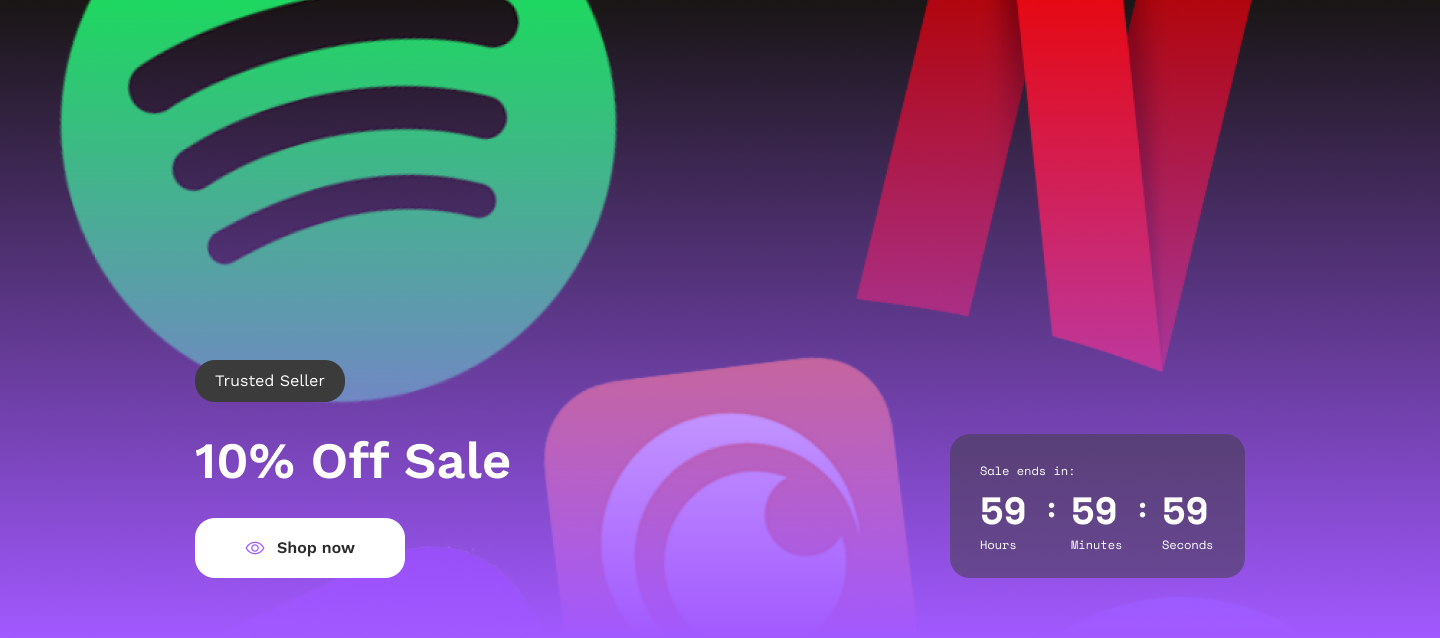
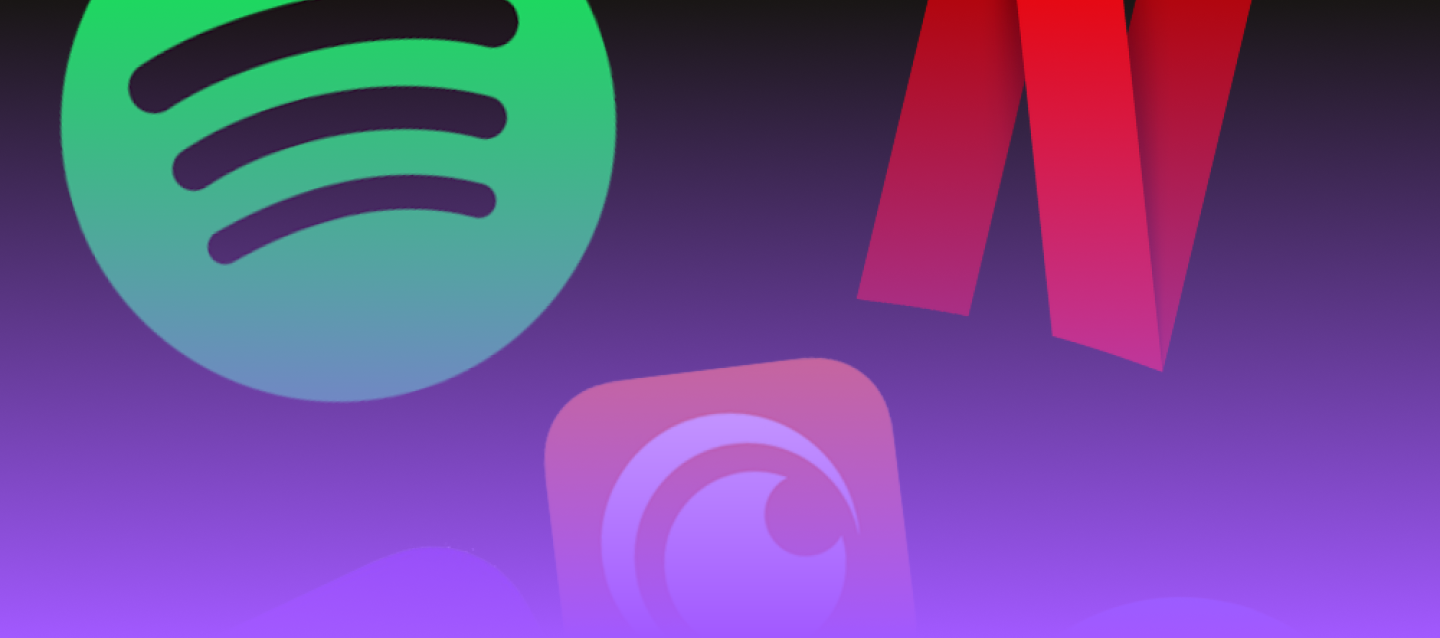
com2

diff --git a/my-app/src/components/home/sale.tsx b/my-app/src/components/home/sale.tsx
@@ -5,13 +5,62 @@ export default function Sale() {
   return (
     <section>
       <div
-        style={{
-          backgroundImage: "url(/NFT_Highlight.png)",
-          backgroundRepeat: "no-repeat",
-          backgroundSize: "cover",
-          height: "100vh", // add this line
-        }}
-      ></div>
+        className="bg-cover bg-no-repeat bg-center w-full h-screen"
+        style={{ backgroundImage: "url(/NFT_Highlight.png)" }}
+      >
+        <div className="flex flex-row lg:px-[235px] md:px-[50px] sm:px-[50px] justify-between items-center">
+          <div className="flex flex-col lg:mt-[500px] md:mt-[200px] mb-[40px] space-y-30 justify-start items-start">
+            <button className="rounded-[20px] bg-[#3B3B3B] px-[30px] py-[10px] justify-center">
+              Trusted Seller
+            </button>
+            <span className="text-[51px] font-[600] ">10% Off Sale</span>
+            <button className="bg-white flex flex-row justify-center items-center rounded-[20px] px-[45px] py-[18px] gap-10">
+              <svg
+                xmlns="http://www.w3.org/2000/svg"
+                width="20"
+                height="20"
+                viewBox="0 0 20 20"
+                fill="none"
+              >
+                <path
+                  fill-rule="evenodd"
+                  clip-rule="evenodd"
+                  d="M2.83931 6.74556C4.3292 5.25567 6.66714 3.75 10 3.75C13.3329 3.75 15.6708 5.25567 17.1607 6.74556C17.9038 7.4887 18.4397 8.23076 18.7906 8.78809C18.9664 9.06724 19.0966 9.30146 19.184 9.4683C19.2277 9.55176 19.2608 9.61849 19.2835 9.66569C19.2949 9.6893 19.3037 9.70804 19.3099 9.72157L19.3174 9.7379L19.3197 9.74306L19.3206 9.74487L19.3209 9.74558C19.321 9.74588 19.3211 9.74616 18.75 10C19.3211 10.2538 19.321 10.2541 19.3209 10.2544L19.3206 10.2551L19.3197 10.2569L19.3174 10.2621L19.3099 10.2784C19.3037 10.292 19.2949 10.3107 19.2835 10.3343C19.2608 10.3815 19.2277 10.4482 19.184 10.5317C19.0966 10.6985 18.9664 10.9328 18.7906 11.2119C18.4397 11.7692 17.9038 12.5113 17.1607 13.2544C15.6708 14.7443 13.3329 16.25 10 16.25C6.66714 16.25 4.3292 14.7443 2.83931 13.2544C2.09617 12.5113 1.5603 11.7692 1.20939 11.2119C1.03362 10.9328 0.903373 10.6985 0.815984 10.5317C0.772267 10.4482 0.739205 10.3815 0.716476 10.3343C0.705109 10.3107 0.696319 10.292 0.690066 10.2784L0.682582 10.2621L0.680256 10.2569L0.679445 10.2551L0.679127 10.2544C0.678993 10.2541 0.678868 10.2538 1.25 10C0.678868 9.74616 0.678993 9.74588 0.679127 9.74558L0.679445 9.74487L0.680256 9.74306L0.682582 9.7379L0.690066 9.72157C0.696319 9.70804 0.705109 9.6893 0.716476 9.66569C0.739205 9.61849 0.772267 9.55176 0.815984 9.4683C0.903373 9.30146 1.03362 9.06724 1.20939 8.78809C1.5603 8.23076 2.09617 7.4887 2.83931 6.74556ZM1.25 10L0.678868 9.74616C0.607044 9.90777 0.607044 10.0922 0.678868 10.2538L1.25 10ZM1.94882 10C2.02235 10.1377 2.12794 10.3248 2.26718 10.5459C2.58033 11.0433 3.06008 11.7074 3.72319 12.3706C5.0458 13.6932 7.08286 15 10 15C12.9171 15 14.9542 13.6932 16.2768 12.3706C16.9399 11.7074 17.4197 11.0433 17.7328 10.5459C17.8721 10.3248 17.9777 10.1377 18.0512 10C17.9777 9.86227 17.8721 9.67524 17.7328 9.4541C17.4197 8.95674 16.9399 8.29255 16.2768 7.62944C14.9542 6.30683 12.9171 5 10 5C7.08286 5 5.0458 6.30683 3.72319 7.62944C3.06008 8.29255 2.58033 8.95674 2.26718 9.4541C2.12794 9.67524 2.02235 9.86227 1.94882 10ZM18.75 10L19.3211 10.2538C19.393 10.0922 19.393 9.90777 19.3211 9.74616L18.75 10Z"
+                  fill="#A259FF"
+                />
+                <path
+                  fill-rule="evenodd"
+                  clip-rule="evenodd"
+                  d="M10 7.5C8.61929 7.5 7.5 8.61929 7.5 10C7.5 11.3807 8.61929 12.5 10 12.5C11.3807 12.5 12.5 11.3807 12.5 10C12.5 8.61929 11.3807 7.5 10 7.5ZM6.25 10C6.25 7.92893 7.92893 6.25 10 6.25C12.0711 6.25 13.75 7.92893 13.75 10C13.75 12.0711 12.0711 13.75 10 13.75C7.92893 13.75 6.25 12.0711 6.25 10Z"
+                  fill="#A259FF"
+                />
+              </svg>
+              <span className="text-[#000] text-[16px] font-[600]">
+                Shop now
+              </span>
+            </button>
+          </div>
+          <div className="flex flex-col items-start justify-center bg-[#3B3B3B] w-[295px] h-[144px] px-[30px] py-[30px] lg:mt-[500px] md:mt-[200px] rounded-[20px] mb-[40px] gap-10">
+            <span>Sale ends in:</span>
+            <div className="flex flex-row w-full space-x-15 justify-center items-center">
+              <div className="flex flex-col items-center">
+                <span className="text-[#FFF]  text-[38px] font-[700]">59</span>
+                <span>Hours</span>
+              </div>
+              <span>:</span>
+              <div className="flex flex-col items-center">
+                <span className="text-[#FFF]  text-[38px] font-[700]">59</span>
+                <span>Minutes</span>
+              </div>
+              <span>:</span>
+              <div className="flex flex-col items-center ">
+                <span className="text-[#FFF]  text-[38px] font-[700]">59</span>
+                <span>Seconds</span>
+              </div>
+            </div>
+          </div>
+        </div>
+      </div>
     </section>
   );
 }

diff --git a/my-app/src/components/home/digest.tsx b/my-app/src/components/home/digest.tsx
@@ -3,21 +3,27 @@ import { HomeImage } from "@/assets/images/_images";
 export default function Digest() {
   return (
     <section>
-      <div className="bg-black-gray px-[255px] flex flex-row justify-between items-center py-[120px]">
-        <div className="flex flex-col w-[510px] h-full items-start space-y-55">
-          <div className="flex flex-col min-w-max space-y-55">
-            <span className="text-[67px] font-[600] leading-3">
+      <div className="bg-black-gray lg:px-[255px] md:px-50 sm:px-50 flex flex-row justify-between items-center py-[120px]">
+        <div className="flex flex-col lg:w-[510px] md:w-[300px] h-full items-start space-y-55">
+          <div className="flex flex-col min-w-max space-y-5">
+            <span className="lg:text-[67px] md:text-[38px] sm:text-[28px] font-[600]">
               Discover & Buy
             </span>
-            <span className="text-[67px] font-[600] leading-3">Digital</span>
-            <span className="text-[67px] font-[600] leading-3">Accounts</span>
+            <div className="flex md:flex-col sm:flex-row md:space-x-0 space-x-10">
+              <span className="lg:text-[67px] md:text-[38px] sm:text-[28px] font-[600]">
+                Digital
+              </span>
+              <span className="lg:text-[67px] md:text-[38px] sm:text-[28px] font-[600]">
+                Accounts
+              </span>
+            </div>
           </div>
 
           <span className="text-[22px] font-[400]">
             Lorem ipsum dolor sit amet, consectetur adipiscing elit. Sed euismod
             sodales neque et porta. Donec ut diam dignissim
           </span>
-          <button className="flex flex-row w-[180px] min-w-[180px]  gradient-btn rounded-[20px] h-[40px] w-full gap-[12px] px-5 py-0 items-center justify-center">
+          <button className="flex flex-row w-[180px] min-w-[180px]  gradient-btn1 rounded-[20px] h-[40px] gap-[12px] px-5 py-0 items-center justify-center">
             <svg
               xmlns="http://www.w3.org/2000/svg"
               width="20"
@@ -71,7 +77,7 @@ export default function Digest() {
         </div>
         <div>
           <Image
-            className="h-[537px] w-[510px] min-h-[537px] min-w-[510px] "
+            className="lg:h-[537px] md:h-[350px] lg:w-[510px] md:w-[350px] min-w-[250px] min-h-[250px]"
             src={HomeImage.Placeholer}
             alt="placeholder"
           />

diff --git a/my-app/src/components/layouts/header.tsx b/my-app/src/components/layouts/header.tsx
@@ -6,7 +6,7 @@ import { HeaderIcons } from "@/assets/icons/_icons";
 export default function Header() {
   return (
     <>
-      <div className="bg-black-gray flex flex-row justify-between py-[25px] px-[50px]">
+      <div className="bg-black-gray flex flex-row justify-between py-[25px] lg:px-[50px] md:px-30">
         <div className="flex flex-row justify-center items-center space-x-15">
           <Image
             className="h-[49px] w-[53px] max-h-[49px] max-w-[53px]"
@@ -17,7 +17,7 @@ export default function Header() {
             PVL Account Shop
           </span>
         </div>
-        <div className="flex flex-row justify-center items-center space-x-35">
+        <div className="lg:flex hidden flex-row justify-center items-center space-x-35">
           <span className="text-[16px] font-[600] text-center leading-3">
             Marketplace
           </span>
@@ -27,7 +27,7 @@ export default function Header() {
           <span className="text-[16px] font-[600] text-center leading-3">
             Cart
           </span>
-          <button className="flex flex-row w-[150px] min-w-[150px]  gradient-btn rounded-[15px] h-[50px] w-full gap-[12px] px-5 py-0 items-center justify-center">
+          <button className="flex flex-row w-[150px] min-w-[150px]  gradient-btn rounded-[15px] h-[50px] gap-[12px] px-5 py-0 items-center justify-center">
             <svg
               xmlns="http://www.w3.org/2000/svg"
               width="20"

diff --git a/my-app/src/components/home/selling.tsx b/my-app/src/components/home/selling.tsx
@@ -4,10 +4,10 @@ import Image from "next/image";
 export default function Home() {
   return (
     <section>
-      <div className="flex flex-col mb-[55px]  px-[255px]">
+      <div className="flex flex-col mb-[55px] lg:px-[255px] md:px-50 sm:px-50">
         <div className="flex flex-row justify-between items-center">
           <div className="flex flex-col ">
-            <div className="flex flex-col w-[510px] min-w-max">
+            <div className="flex flex-col lg:w-[510px] md:w-auto sm:w-auto min-w-max">
               <span className="text-[38px] font-[600]">Top Selling</span>
               <span className="text-[22px] font-[400] mt-[20px]">
                 Check out OUR best selling accounts

diff --git a/my-app/src/components/layouts/footer.tsx b/my-app/src/components/layouts/footer.tsx
@@ -6,8 +6,8 @@ import { HeaderIcons } from "@/assets/icons/_icons";
 export default function Footer() {
   return (
     <>
-      <div className="bg-black-gray flex flex-row w-full  justify-center items-center space-x-35 py-25">
-        <div className="w-[320px] items-start">
+      <div className="bg-black-gray flex lg:flex-row md:flex-col w-full  lg:justify-center md:justify-start lg:items-center md:items-start lg:space-x-35 space-x-0 space-y-35 py-25 lg:px-0 md:px-50">
+        <div className="lg:w-[320px] md:w-full items-start">
           <Image
             className="h-[49px] w-[53px] max-h-[49px] max-w-[53px]"
             src={HeaderIcons.Logo}

diff --git a/my-app/src/components/home/discover.tsx b/my-app/src/components/home/discover.tsx
@@ -4,7 +4,7 @@ import { DigestImage } from "@/assets/images/_images";
 export default function Discover() {
   return (
     <section>
-      <div className="flex flex-col py-55 px-[255px]">
+      <div className="flex flex-col py-55 lg:px-[255px] md:px-50 sm:px-50">
         <div className="bg-[#3B3B3B] p-[60px] rounded-[20px] w-full flex flex-row justify-center items-center h-[350px] gap-40">
           <Image src={DigestImage.Digest} alt="digest" />
           <div className="flex flex-col">

diff --git a/my-app/src/components/home/works.tsx b/my-app/src/components/home/works.tsx
@@ -4,7 +4,7 @@ import { WorksData } from "@/assets/images/_images";
 export default function Works() {
   return (
     <section>
-      <div className="flex flex-col py-55 px-[255px]">
+      <div className="flex flex-col py-55 lg:px-[255px] md:px-50">
         <div className="flex flex-row justify-between items-center">
           <div className="flex flex-col ">
             <div className="flex flex-col w-[510px] min-w-max">

diff --git a/my-app/src/assets/scss/styles.scss b/my-app/src/assets/scss/styles.scss
@@ -6,4 +6,7 @@
   .gradient-btn {
     background: linear-gradient(149deg, #a259ff 0%, #ff6250 100%), #a259ff;
   }
+  .gradient-btn1 {
+    background: linear-gradient(170deg, #a259ff 0%, #377df7 100%), #a259ff;
+  }
 }
